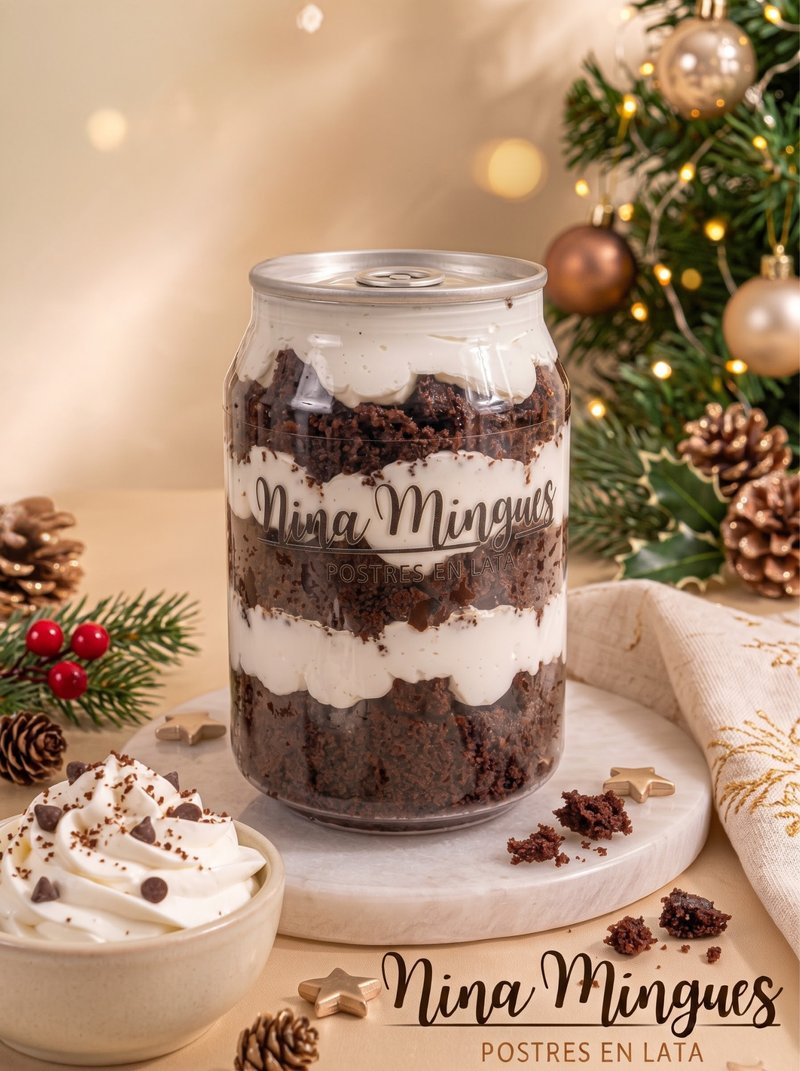
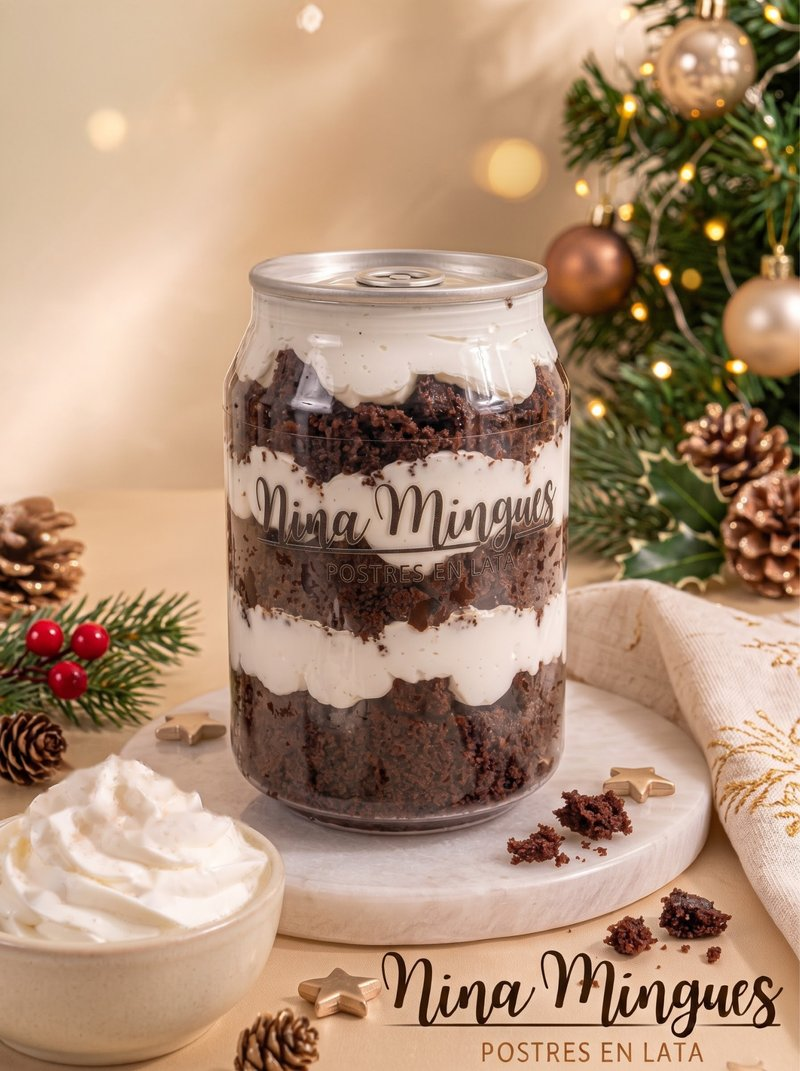
Chocolate & Bombón: foto sin chispas
Claude-Session: https://claude.ai/code/session_01MiBfgD4EK1fNmnVYWUW1u3

Changed region(s): [[0.0, 0.7087, 0.2812, 0.8936], [0.2812, 0.7703, 0.3438, 0.8319]]

diff --git a/index.html b/index.html
@@ -35,7 +35,7 @@
   <link rel="preconnect" href="https://fonts.googleapis.com">
   <link rel="preconnect" href="https://fonts.gstatic.com" crossorigin>
   <link href="https://fonts.googleapis.com/css2?family=Barlow+Condensed:wght@400;500;600;700&family=Rochester&family=Poppins:ital,wght@0,400;0,500;0,600;0,700;1,400&display=swap" rel="stylesheet">
-  <link rel="stylesheet" href="estilos.css?v=34">
+  <link rel="stylesheet" href="estilos.css?v=35">
 </head>
 <body>
   <header class="hero">
@@ -264,7 +264,7 @@
 
   <div class="toast" id="toast" role="status" aria-live="polite"></div>
 
-  <script src="datos.js?v=34"></script>
-  <script src="app.js?v=34"></script>
+  <script src="datos.js?v=35"></script>
+  <script src="app.js?v=35"></script>
 </body>
 </html>

diff --git a/datos.js b/datos.js
@@ -257,7 +257,7 @@ window.CATEGORIAS = [
         nombre: "Chocolate & Bombón (Estilo Pastelito)",
         descripcion: "Bizcocho de Doble Chocolate relleno de suave crema de bombón. Inspirado en ese pastelito de chocolate con crema blanca que comíamos de niños.",
         precio: 85, precioEvento: 80,
-        foto: "img/productos/chocolate-bombon.jpg",
+        foto: "img/productos/chocolate-bombon.jpg?v=2",
         etiqueta: "Nuevo",
       },
       {
